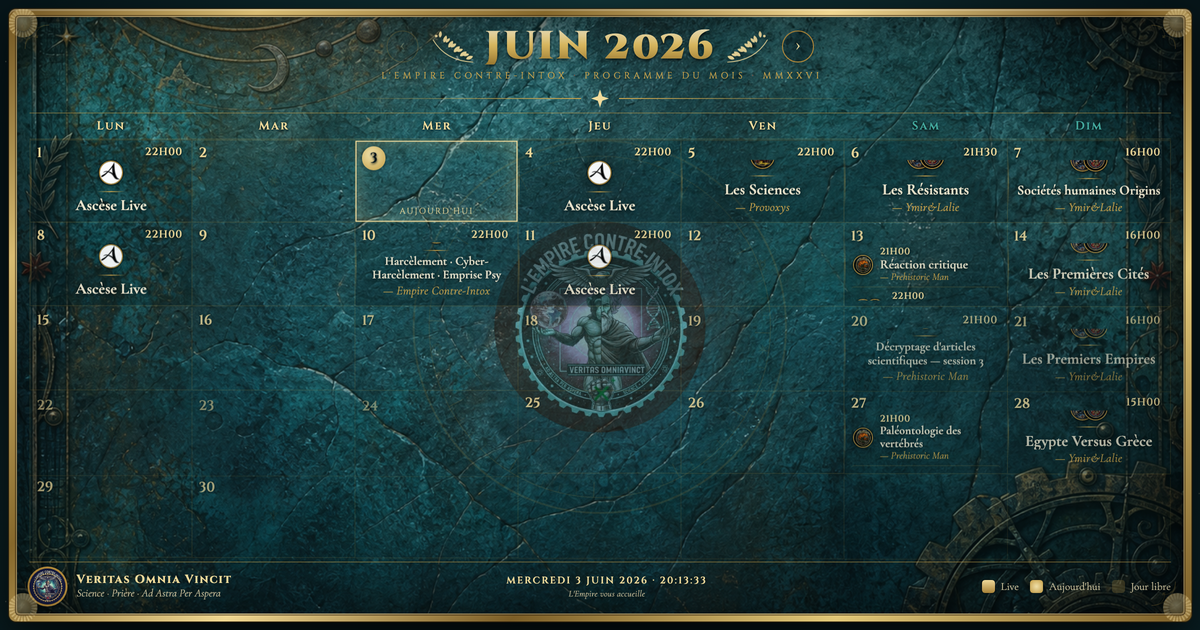
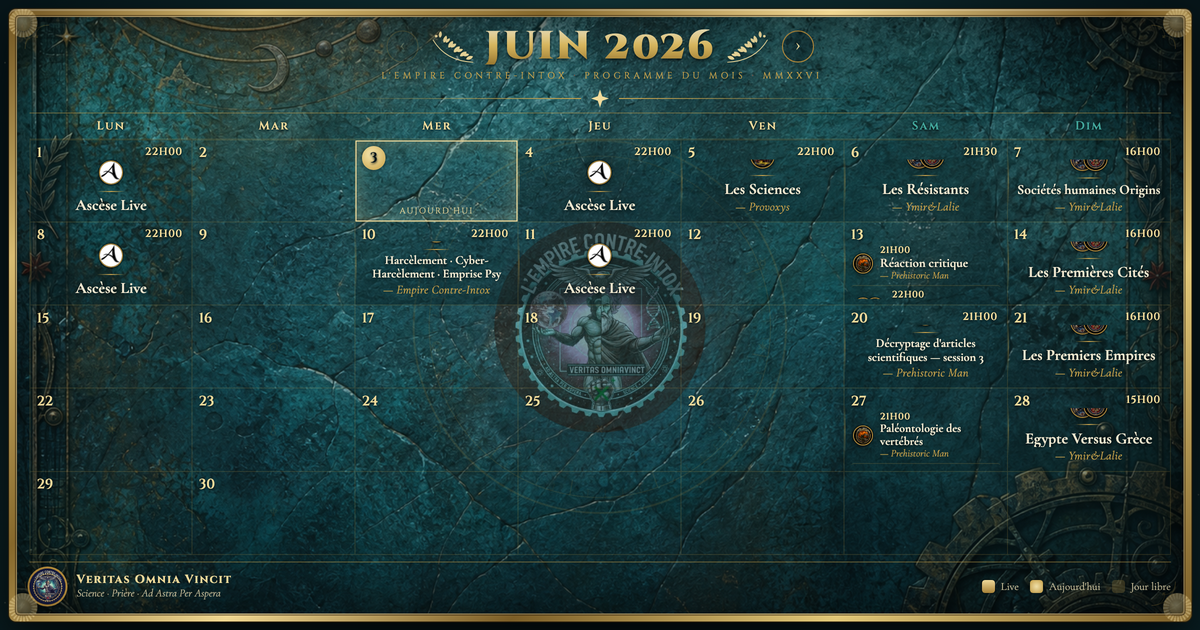
Auto-régénération de l'aperçu social avant chaque push
- Hook git pre-commit (.githooks/pre-commit) : régénère og-image.png quand un
  fichier visuel change, puis le stage -> chaque push embarque un aperçu à jour
- scripts/gen-og.sh : génère la carte 1200x630 via le mode ?og=1 (sans horloge/poussière)
- index.html : mode ?og=1 (masque l'horloge, désactive la poussière d'or)
- README + CLAUDE mis à jour (activation: git config core.hooksPath .githooks)

diff --git a/index.html b/index.html
@@ -615,6 +615,7 @@
   //  Calendrier piloté par data/events.json — voir README.md / CLAUDE.md
   // ===================================================================
   const DATA_URL="data/events.json";
+  const OG=new URLSearchParams(location.search).has("og"); // mode aperçu social : rendu propre (sans horloge ni poussière)
   const MONTHS_FR=["Janvier","Février","Mars","Avril","Mai","Juin","Juillet",
                    "Août","Septembre","Octobre","Novembre","Décembre"];
   const DOW_FULL=["Lundi","Mardi","Mercredi","Jeudi","Vendredi","Samedi","Dimanche"];
@@ -807,7 +808,8 @@
     const time=d.toLocaleTimeString("fr-FR",{hour:"2-digit",minute:"2-digit",second:"2-digit"});
     clockT.textContent=date.charAt(0).toUpperCase()+date.slice(1)+" · "+time;
   }
-  tick();setInterval(tick,1000);
+  if(OG){const c=document.getElementById("clock");if(c)c.style.visibility="hidden";}
+  else{tick();setInterval(tick,1000);}
 
   // ---------- Parallax sur le sceau ----------
   const seal=document.getElementById("seal");
@@ -820,7 +822,7 @@
 
   // ---------- Poussière d'or (canvas) ----------
   (function(){
-    if(matchMedia("(prefers-reduced-motion:reduce)").matches)return;
+    if(OG||matchMedia("(prefers-reduced-motion:reduce)").matches)return;
     const cv=document.getElementById("motes"),ctx=cv.getContext("2d");
     let w,h,parts;
     function resize(){w=cv.width=innerWidth;h=cv.height=innerHeight;

diff --git a/CLAUDE.md b/CLAUDE.md
@@ -19,7 +19,11 @@ Pas de framework, pas de build, pas de dépendance npm. **N'introduis aucun outi
 | `data/events.json` | **Source de vérité du contenu** (mois + événements + branding) | **Oui** — pour tout changement de contenu |
 | `index.html` | App complète : CSS + moteur JS qui lit le JSON et rend la grille | Seulement pour le design / comportement |
 | `background.png` | Texture de fond de la carte | Rarement |
-| `Logo-ECI.jpg` | Sceau central + médaillon pied de page | Rarement |
+| `Logo-ECI.jpg` | Sceau central + médaillon + favicon | Rarement |
+| `*.jpeg` (ymir, lalie, …) | Avatars des organisateurs | À l'ajout d'un organisateur |
+| `og-image.png` | Aperçu social (1200×630) | **Non — auto-régénéré** par le hook |
+| `scripts/gen-og.sh` | Génère l'aperçu social | Rarement |
+| `.githooks/pre-commit` | Régénère l'aperçu avant chaque commit | Rarement |
 | `README.md` | Doc utilisateur | Si le modèle de données change |
 
 ## Modèle de données (`data/events.json`)
@@ -103,22 +107,35 @@ CHROME="/Applications/Google Chrome.app/Contents/MacOS/Google Chrome"
   --screenshot=preview.png "http://localhost:8000/?m=2026-07"
 ```
 
-## Aperçu social (og-image.png)
+## Aperçu social (og-image.png) — RÉGÉNÉRÉ AVANT CHAQUE PUSH
 
 `index.html` référence `og-image.png` (1200×630) comme image de partage (Open Graph /
-Twitter). C'est un **rendu figé** du calendrier — à régénérer si le design change beaucoup :
+Twitter). C'est un **rendu du calendrier** : il doit toujours refléter le contenu déployé.
 
+⚠ **Règle : l'aperçu social est régénéré avant chaque push.** C'est **automatisé** par un
+hook git **pre-commit** (`.githooks/pre-commit`) : dès qu'un fichier visuel
+(`index.html`, `data/**`, avatars, `background.png`, `Logo-ECI.jpg`) est en staging, le hook
+exécute `scripts/gen-og.sh`, régénère l'image et l'ajoute au commit. Chaque commit — donc
+chaque push — embarque ainsi un aperçu à jour.
+
+> Pourquoi pre-commit et pas pre-push : la révision poussée est figée au moment du
+> `git push`. Un hook pre-push ne pourrait pas faire entrer la nouvelle image dans le même
+> envoi. On régénère donc au commit, ce que le push transporte ensuite.
+
+**Activation (une fois par clone) :**
 ```bash
-python3 -m http.server 8000 &
-CHROME="/Applications/Google Chrome.app/Contents/MacOS/Google Chrome"
-"$CHROME" --headless=new --disable-gpu --hide-scrollbars --force-device-scale-factor=2 \
-  --window-size=1200,630 --virtual-time-budget=6000 --screenshot=/tmp/og_raw.png \
-  "http://localhost:8000/index.html"
-python3 -c "from PIL import Image; Image.open('/tmp/og_raw.png').convert('RGB').resize((1200,630)).save('og-image.png',optimize=True)"
+git config core.hooksPath .githooks
 ```
 
-Incrémente `?v=N` sur les balises `og:image`/`twitter:image` pour forcer les réseaux à
-recharger l'aperçu (ils le mettent en cache agressivement).
+**Régénérer à la main si besoin :**
+```bash
+bash scripts/gen-og.sh
+```
+
+`gen-og.sh` rend le mode **`?og=1`** (sans horloge ni poussière → carte nette et stable),
+via un serveur local (file:// ne charge pas le JSON) + Google Chrome (`$CHROME`). Sans Chrome,
+l'étape est ignorée sans bloquer le commit. Pense à incrémenter `?v=N` sur les balises
+`og:image`/`twitter:image` de `index.html` pour forcer les réseaux à recharger l'aperçu.
 
 ## Déployer
 
@@ -127,6 +144,9 @@ GitHub Pages se met à jour à chaque push sur `main` (~1 min) :
 ```bash
 git add -A && git commit -m "…" && git push
 ```
+
+Au `commit`, le hook `pre-commit` régénère `og-image.png` si un fichier visuel a changé
+(vérifie d'abord `git config core.hooksPath` = `.githooks`).
 
 Compte GitHub actif : **TheSamLePirate** (`gh auth status`). URL :
 https://thesamlepirate.github.io/empire-calendrier/
@@ -141,3 +161,5 @@ https://thesamlepirate.github.io/empire-calendrier/
   filigranes) doivent rester **discrets** (faibles opacités). Ne pas les rendre criards.
 - Lundi est la première colonne (semaine FR). Ne pas repasser en dimanche-first.
 - Pas de build/framework : rester en HTML/CSS/JS statique et autonome.
+- **Aperçu social régénéré avant chaque push** via le hook `pre-commit` (activer une fois :
+  `git config core.hooksPath .githooks`). Le mode `?og=1` produit la carte propre.

diff --git a/README.md b/README.md
@@ -18,10 +18,19 @@ empire-calendrier/
 ├── data/
 │   └── events.json     ← ★ LE SEUL FICHIER À ÉDITER pour le contenu
 ├── background.png      ← texture de fond (carte patinée)
-├── Logo-ECI.jpg        ← emblème (sceau central + médaillon du pied de page)
+├── Logo-ECI.jpg        ← emblème (sceau central + médaillon + favicon)
+├── *.jpeg              ← avatars des organisateurs (ymir, lalie, provoxys, …)
+├── og-image.png        ← aperçu social (auto-régénéré, ne pas éditer à la main)
+├── scripts/gen-og.sh   ← génère l'aperçu social
+├── .githooks/pre-commit← régénère l'aperçu avant chaque commit
 ├── README.md
 └── CLAUDE.md           ← guide de maintenance pour l'agent / les contributeurs
 ```
+
+> **Première utilisation après un clone :** activez le hook qui tient l'aperçu social à jour :
+> ```bash
+> git config core.hooksPath .githooks
+> ```
 
 Tout est statique : pas de build, pas de dépendance. GitHub Pages sert les fichiers tels quels.
 
@@ -145,6 +154,14 @@ python3 -m http.server 8000
 
 ---
 
+## 🖼 Aperçu social (image de partage)
+
+Quand le lien est partagé (Discord, X, WhatsApp…), c'est un **rendu du calendrier**
+(`og-image.png`) qui s'affiche. Cette image est **régénérée automatiquement avant chaque
+push** : un hook git `pre-commit` la reconstruit dès qu'un fichier visuel change et l'ajoute
+au commit — vous n'avez rien à faire (pensez juste à activer le hook une fois après le clone,
+voir plus haut). Régénération manuelle si besoin : `bash scripts/gen-og.sh`.
+
 ## 🚀 Déploiement
 
 Le site est publié via **GitHub Pages** (branche `main`, racine `/`).
@@ -152,7 +169,7 @@ Toute modification poussée sur `main` est redéployée automatiquement (~1 min)
 
 ```bash
 git add data/events.json
-git commit -m "Calendrier : ajout des lives de juillet"
+git commit -m "Calendrier : ajout des lives de juillet"   # le hook régénère og-image.png
 git push
 ```
 
